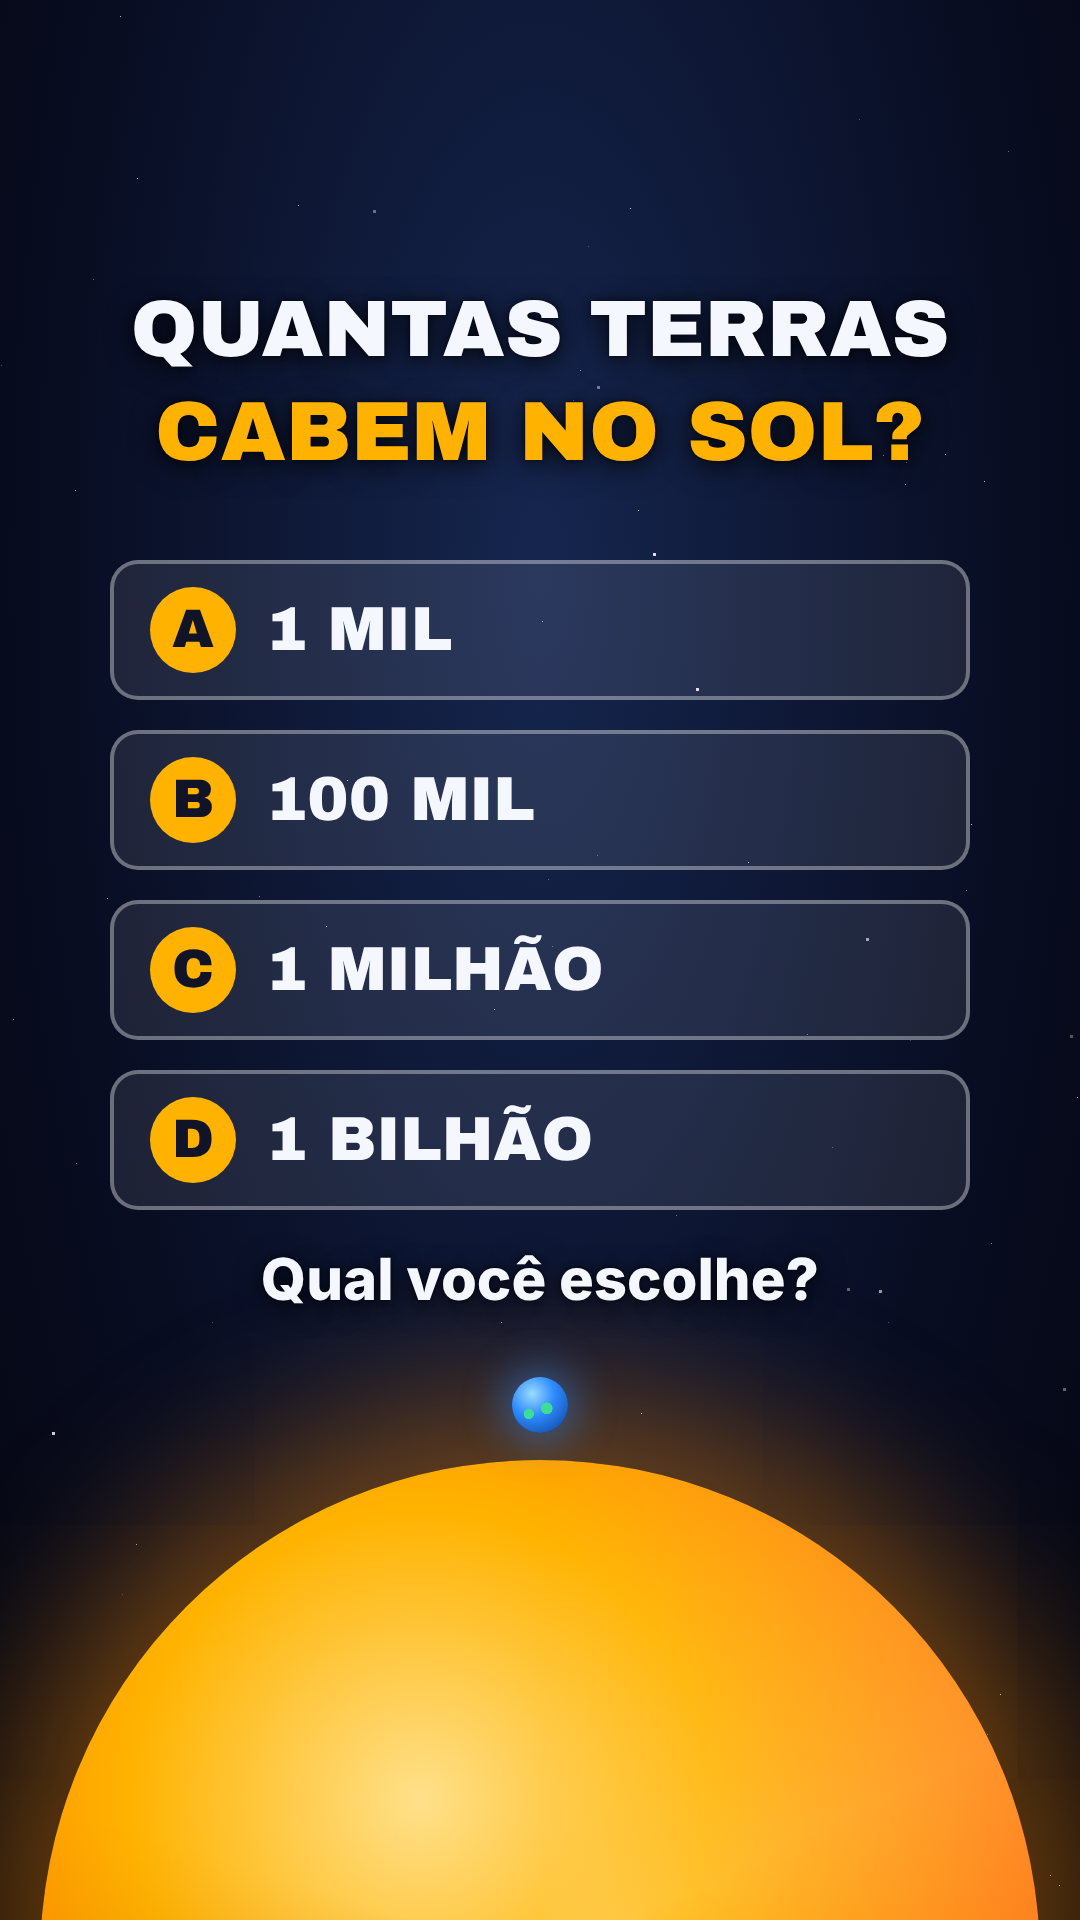
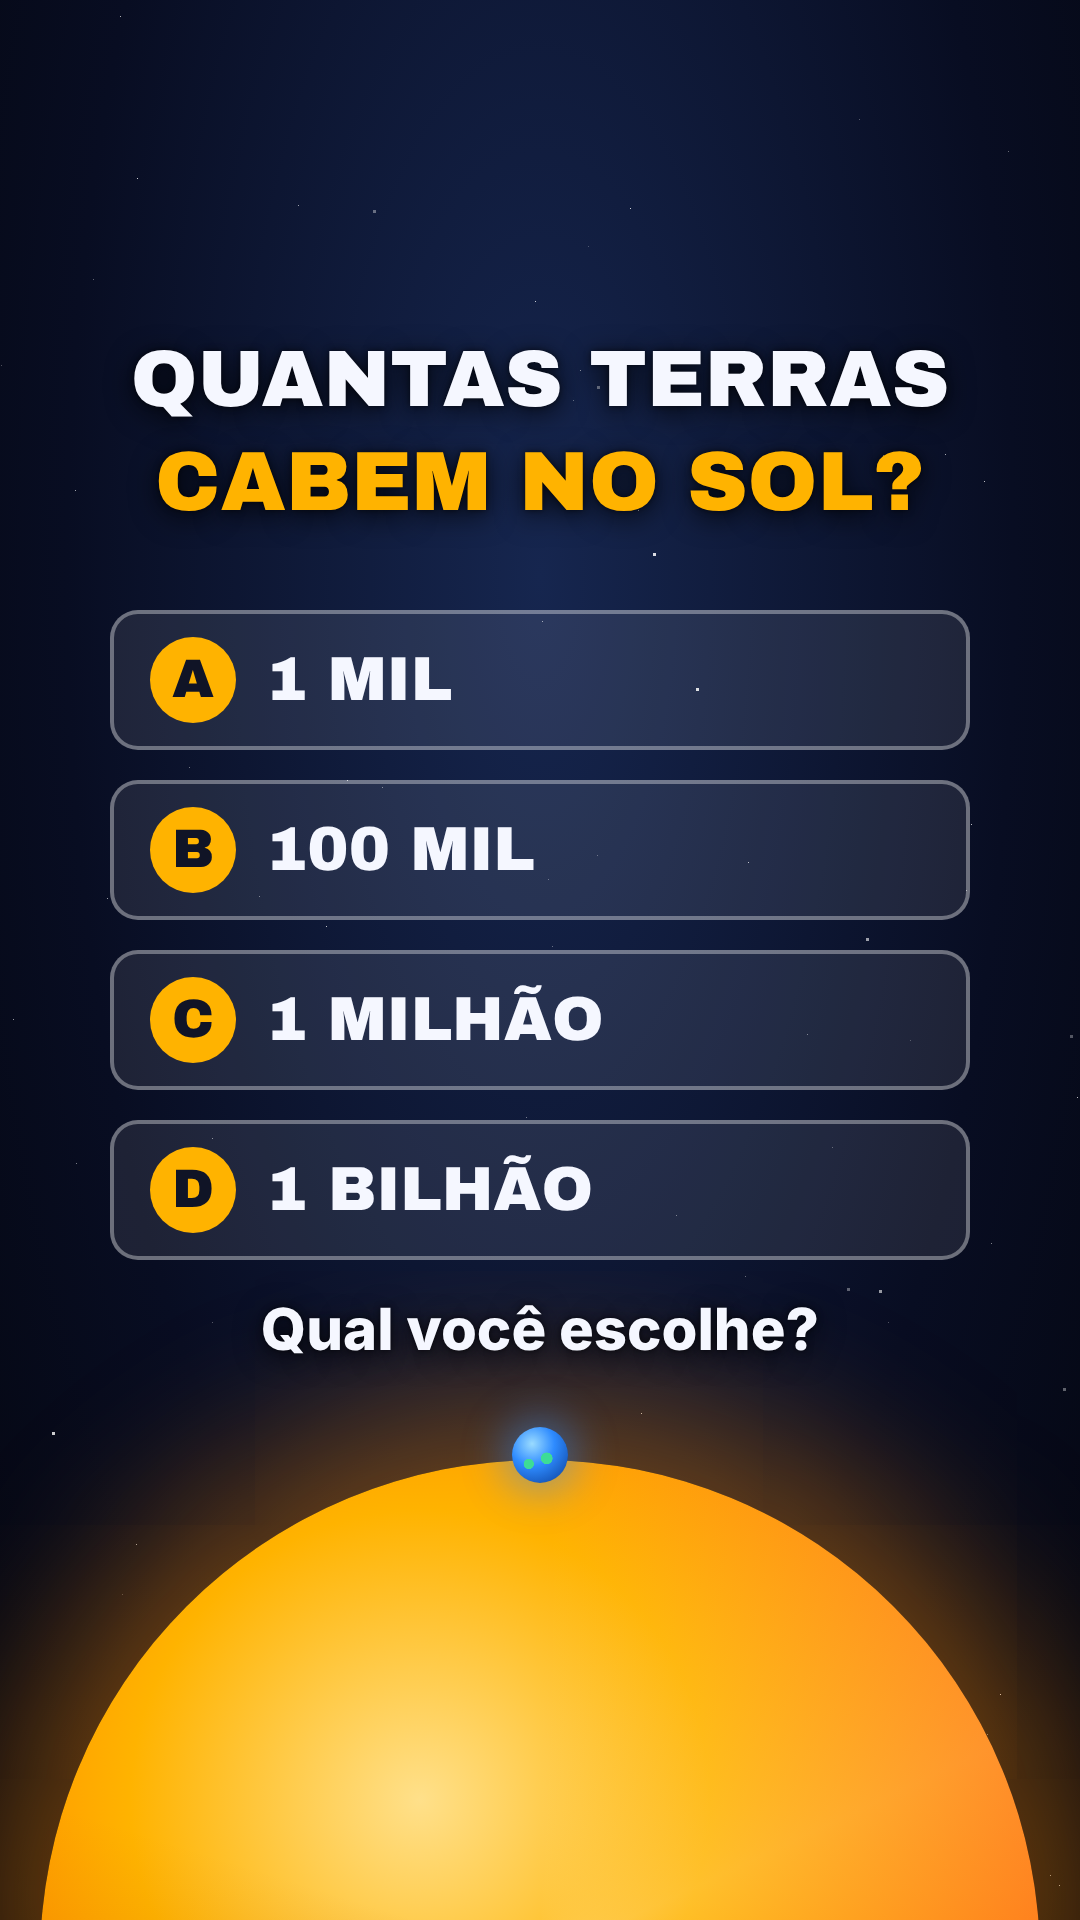
Capas: regra de zona segura do feed (4:5 e 3:4); capas do 001 reposicionadas
Claude-Session: https://claude.ai/code/session_012be1qjdyB8EpcjHdCHRQKv

Changed region(s): [[0.0917, 0.1562, 0.9167, 0.7812]]

diff --git a/desvendando-ideias/producoes/001-sol/capa/index.html b/desvendando-ideias/producoes/001-sol/capa/index.html
@@ -24,9 +24,9 @@ html, body { width:1080px; height:1920px; overflow:hidden; background:#04060f; }
 </head>
 <body>
 <div id="root" data-composition-id="main" data-start="0" data-duration="3" data-width="1080" data-height="1920">
-<div id="capa0" class="clip shot" data-start="0" data-duration="1" data-track-index="1"><div class="bg"><div class="stars"></div></div><div class="sun" style="left:40.0px;top:900.0px;width:1000px;height:1000px"><div class="suntex"></div></div><div class="earth" style="left:78.0px;top:898.0px;width:64px;height:64px"></div><div class="lbl" style="left:60px;top:985px">TERRA</div><div class="t" style="top:270px;font-size:150px;color:#F5F7FF;">QUANTAS</div><div class="t" style="top:430px;font-size:150px;color:#6FB8FF;">TERRAS</div><div class="t" style="top:590px;font-size:136px;color:#FFB300;">CABEM NO</div><div class="t" style="top:735px;font-size:150px;color:#FFB300;">SOL?</div><div class="stamp" style="top:1430px;font-size:92px;transform:translateX(-50%) rotate(-4deg)">TEM PEGADINHA</div></div>
-<div id="capa1" class="clip shot" data-start="1" data-duration="1" data-track-index="1"><div class="bg"><div class="stars"></div></div><div class="sun" style="left:40.0px;top:1460.0px;width:1000px;height:1000px"><div class="suntex"></div></div><div class="earth" style="left:512.0px;top:1377.0px;width:56px;height:56px"></div><div class="t" style="top:290px;font-size:80px;color:#F5F7FF;">QUANTAS TERRAS</div><div class="t" style="top:390px;font-size:84px;color:#FFB300;">CABEM NO SOL?</div><div class="qrow" style="top:560px"><span class="qlet">A</span><span>1 MIL</span></div><div class="qrow" style="top:730px"><span class="qlet">B</span><span>100 MIL</span></div><div class="qrow" style="top:900px"><span class="qlet">C</span><span>1 MILHÃO</span></div><div class="qrow" style="top:1070px"><span class="qlet">D</span><span>1 BILHÃO</span></div><div class="t ts" style="top:1250px;font-size:58px;color:#F5F7FF">Qual você escolhe?</div></div>
-<div id="capa2" class="clip shot" data-start="2" data-duration="1" data-track-index="1"><div class="bg"><div class="stars"></div></div><div class="sun" style="left:110.0px;top:660.0px;width:860px;height:860px"><div class="suntex"></div></div><div class="earth" style="left:878.0px;top:613.0px;width:54px;height:54px"></div><div class="t" style="top:290px;font-size:106px;color:#FFB300;">1,3 MILHÃO</div><div class="t" style="top:420px;font-size:106px;color:#F5F7FF;">DE TERRAS?</div><div class="stamp" style="top:1440px;font-size:84px;transform:translateX(-50%) rotate(-3deg)">NÃO É BEM ASSIM</div></div>
+<div id="capa0" class="clip shot" data-start="0" data-duration="1" data-track-index="1"><div class="bg"><div class="stars"></div></div><div class="sun" style="left:60.0px;top:940.0px;width:960px;height:960px"><div class="suntex"></div></div><div class="earth" style="left:88.0px;top:928.0px;width:64px;height:64px"></div><div class="lbl" style="left:70px;top:1000px">TERRA</div><div class="t" style="top:345px;font-size:130px;color:#F5F7FF;">QUANTAS</div><div class="t" style="top:485px;font-size:130px;color:#6FB8FF;">TERRAS</div><div class="t" style="top:625px;font-size:118px;color:#FFB300;">CABEM NO</div><div class="t" style="top:755px;font-size:130px;color:#FFB300;">SOL?</div><div class="stamp" style="top:1400px;font-size:92px;transform:translateX(-50%) rotate(-4deg)">TEM PEGADINHA</div></div>
+<div id="capa1" class="clip shot" data-start="1" data-duration="1" data-track-index="1"><div class="bg"><div class="stars"></div></div><div class="sun" style="left:40.0px;top:1460.0px;width:1000px;height:1000px"><div class="suntex"></div></div><div class="earth" style="left:512.0px;top:1427.0px;width:56px;height:56px"></div><div class="t" style="top:340px;font-size:80px;color:#F5F7FF;">QUANTAS TERRAS</div><div class="t" style="top:440px;font-size:84px;color:#FFB300;">CABEM NO SOL?</div><div class="qrow" style="top:610px"><span class="qlet">A</span><span>1 MIL</span></div><div class="qrow" style="top:780px"><span class="qlet">B</span><span>100 MIL</span></div><div class="qrow" style="top:950px"><span class="qlet">C</span><span>1 MILHÃO</span></div><div class="qrow" style="top:1120px"><span class="qlet">D</span><span>1 BILHÃO</span></div><div class="t ts" style="top:1300px;font-size:58px;color:#F5F7FF">Qual você escolhe?</div></div>
+<div id="capa2" class="clip shot" data-start="2" data-duration="1" data-track-index="1"><div class="bg"><div class="stars"></div></div><div class="sun" style="left:110.0px;top:660.0px;width:860px;height:860px"><div class="suntex"></div></div><div class="earth" style="left:878.0px;top:673.0px;width:54px;height:54px"></div><div class="t" style="top:360px;font-size:104px;color:#FFB300;">1,3 MILHÃO</div><div class="t" style="top:480px;font-size:104px;color:#F5F7FF;">DE TERRAS?</div><div class="stamp" style="top:1380px;font-size:84px;transform:translateX(-50%) rotate(-3deg)">NÃO É BEM ASSIM</div></div>
 </div>
 <script>
 window.__timelines = window.__timelines || {};

diff --git a/desvendando-ideias/producao/direcao-de-arte.md b/desvendando-ideias/producao/direcao-de-arte.md
@@ -138,3 +138,13 @@ Som: as três versões usam a mesma mistura de efeitos (`motor/sfx.py`, 355 efei
 Arquivos: `producoes/001-sol/renders/001-sol-cosmos.mp4`, `…/001-sol-teste-brutal/renders/001-sol-brutal.mp4`, `…/001-sol-teste-blueprint/renders/001-sol-blueprint.mp4` (renders ignorados pelo git).
 
 Escolha do dia 1: **pendente (usuário)**.
+
+## 12. Capas: zona segura do feed (29/10/2026)
+
+Pedido do usuário: a capa não pode ter mensagem perto das bordas, porque o Reels é cortado ao aparecer no feed.
+
+- Arquivo da capa: 1080×1920 (9:16), igual ao vídeo.
+- **Corte do feed do Instagram (4:5):** só aparece a faixa y 285–1635. **Grade do perfil (3:4, Instagram e TikTok):** y 240–1680.
+- **Regra:** todo texto e objeto-chave fica entre **y 340 e 1580** e **x 90 e 990**. Fora disso, só fundo e decoração.
+- Conferência: `previa/*-guias.png` (vermelho = 4:5, azul = 3:4) e `previa/*-feed-4x5.png` (como fica no feed), gerados com ffmpeg a partir da capa.
+- 3 opções por vídeo, na pele do vídeo; o usuário escolhe. Capas do 001 reposicionadas para a regra; capas do 002 já nasceram nela (`producoes/002-inflacao/capa/gerar.mjs`, que usa as receitas do motor).
